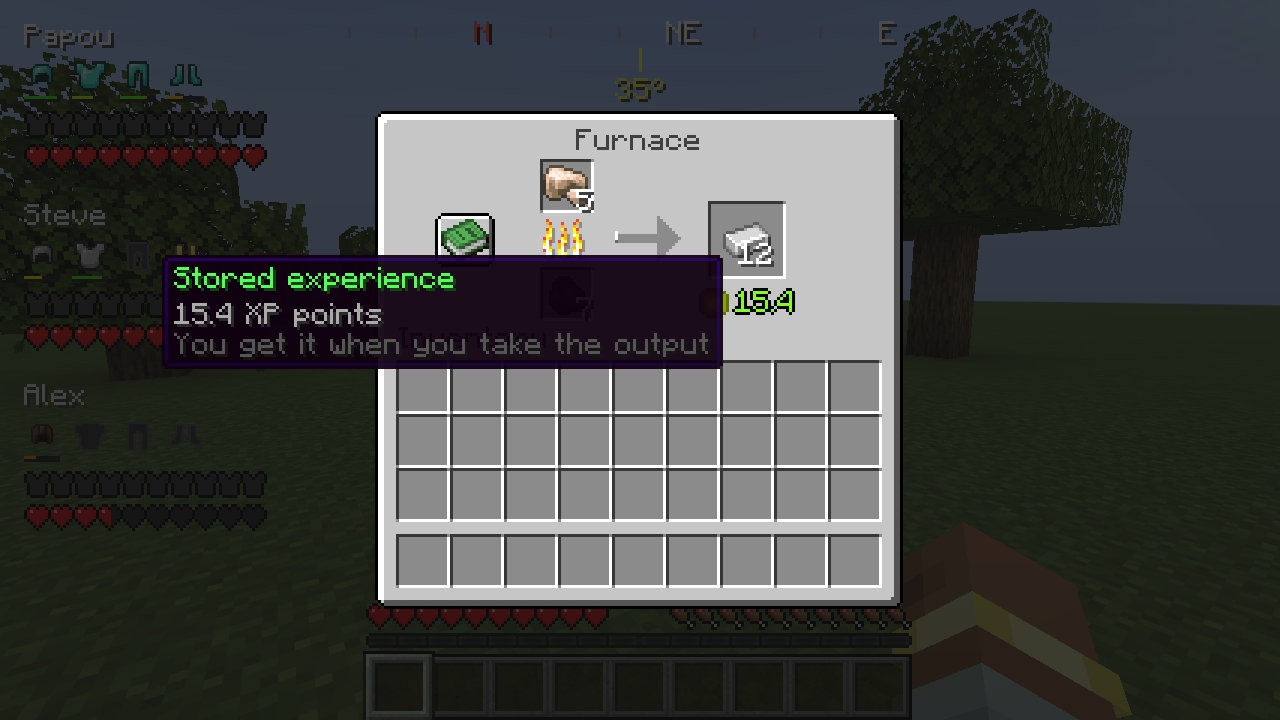
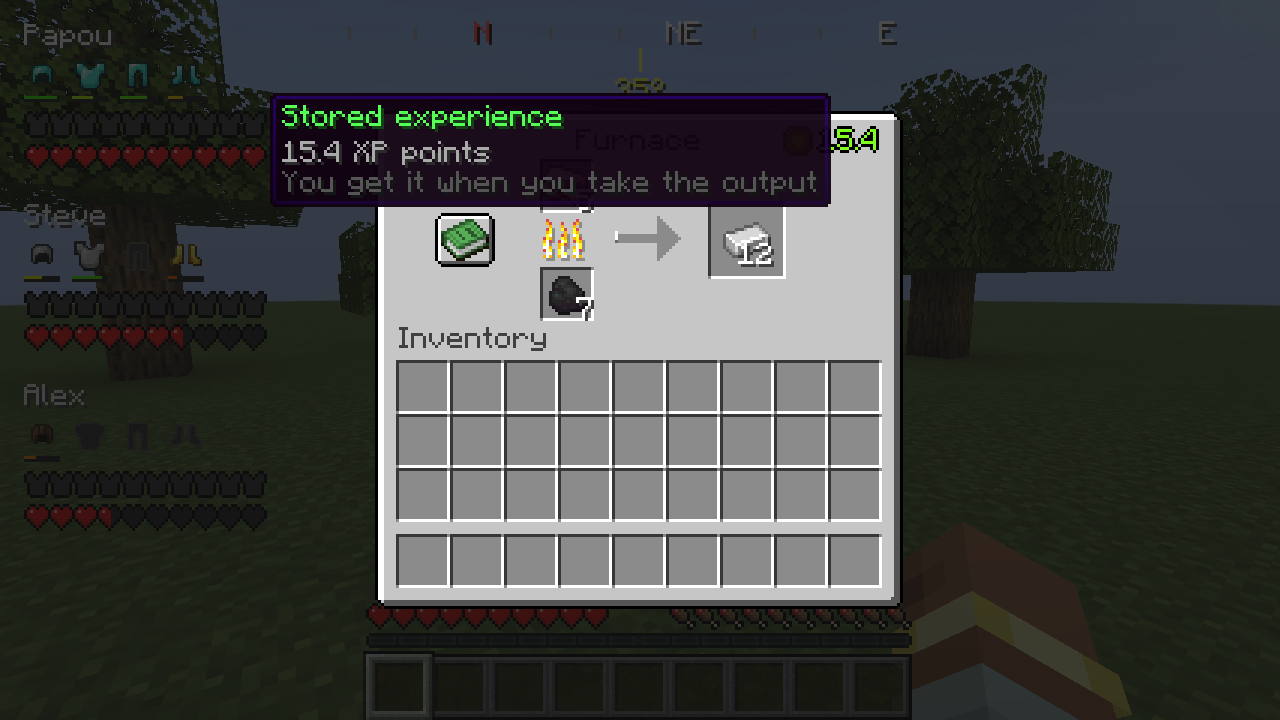
Move furnace XP badge to the title row, right-aligned
The orb and value now sit at the height of the "Furnace" title, with
their right edge 8 px from the GUI border (the same margin as the
"Inventory" label on the left). The longest title, "Blast Furnace",
ends well before it.

Changed region(s): [[0.0, 0.0, 0.9062, 0.5194], [0.0, 0.275, 0.0938, 0.4278], [0.6875, 0.3361, 0.7188, 0.3972]]

diff --git a/src/main/java/com/giulio/papouhud/FurnaceXpOverlay.java b/src/main/java/com/giulio/papouhud/FurnaceXpOverlay.java
@@ -17,7 +17,7 @@ import net.minecraft.util.Mth;
 import net.minecraft.util.Util;
 
 /**
- * Sotto lo slot di output di fornace/affumicatoio/altoforno: una sfera di esperienza pulsante come
+ * Sulla riga del titolo di fornace/affumicatoio/altoforno, a destra: una sfera di esperienza pulsante come
  * quelle a terra, seguita dal valore scritto come il livello nella barra dell'esperienza.
  * Passandoci sopra col mouse compare una spiegazione.
  */
@@ -33,9 +33,13 @@ final class FurnaceXpOverlay {
 	private static final int ORB_INSET = 3;
 	private static final int ORB_VISIBLE = 10;
 
-	/** Centro dello slot di output e riga libera sotto di esso, nelle coordinate della GUI (176x166). */
-	private static final int OUTPUT_CENTER_X = 124;
-	private static final int TEXT_Y = 60;
+	/**
+	 * Sulla riga del titolo ("Fornace"), allineato a destra con lo stesso margine di 8 px della
+	 * scritta "Inventario" a sinistra. Coordinate della GUI della fornace (176x166).
+	 */
+	private static final int GUI_WIDTH = 176;
+	private static final int RIGHT_MARGIN = 8;
+	private static final int TEXT_Y = 6;
 	private static final int GAP = 2;
 	private static final int XP_GREEN = 0xFF80FF20;
 	private static final int OUTLINE = 0xFF000000;
@@ -81,7 +85,7 @@ final class FurnaceXpOverlay {
 		Font font = Minecraft.getInstance().font;
 		String number = format(stored);
 		int width = ORB_VISIBLE + GAP + font.width(number);
-		int left = screen.leftPos + OUTPUT_CENTER_X - width / 2;
+		int left = screen.leftPos + GUI_WIDTH - RIGHT_MARGIN - width;
 		int top = screen.topPos + TEXT_Y;
 
 		// Parte visibile della sfera da (left, top - 1): alta come il testo (8 px) piu' il bordo.

diff --git a/src/gametest/java/com/giulio/papouhud/ScreenshotGameTest.java b/src/gametest/java/com/giulio/papouhud/ScreenshotGameTest.java
@@ -117,7 +117,8 @@ public class ScreenshotGameTest implements FabricClientGameTest {
 		int[] badge = context.computeOnClient(client -> {
 			AbstractFurnaceScreen<?> screen = (AbstractFurnaceScreen<?>) client.gui.screen();
 			int scale = client.getWindow().getGuiScale();
-			return new int[] {(screen.leftPos + 124) * scale, (screen.topPos + 64) * scale};
+			// Inside the badge, which ends 8 px from the right edge on the title row.
+			return new int[] {(screen.leftPos + 160) * scale, (screen.topPos + 10) * scale};
 		});
 		context.getInput().setCursorPos(badge[0], badge[1]);
 		context.waitTicks(5);

diff --git a/README.md b/README.md
@@ -6,7 +6,7 @@ A client-side [Fabric](https://fabricmc.net/) mod for Minecraft that adds a smal
 - **Compass** – a strip at the top of the screen with cardinal/intercardinal directions (north in red) and the current heading in degrees.
 - **XYZ coordinates** – your block position, right below the compass.
 - **Settings menu** – show or hide each element and rebind every shortcut in game.
-- **Furnace XP** – furnaces, smokers and blast furnaces show how much XP they are holding, under the output slot.
+- **Furnace XP** – furnaces, smokers and blast furnaces show how much XP they are holding, next to their title.
 - **Update check** – when a new version is released, a popup at startup offers to install it.
 
 ![Friend panels in the top-left corner, compass and coordinates at the top](docs/screenshots/hud.png)
@@ -46,11 +46,11 @@ In the settings menu, click a shortcut and press the new key. `Delete` or `Backs
 
 ## Furnace XP
 
-When you open a furnace, smoker or blast furnace, a pulsing XP orb and the amount of XP it has stored appear under the output slot. That's the XP you get when you take the output. Hover over it for a short explanation. Nothing is shown while the furnace holds no XP.
+When you open a furnace, smoker or blast furnace, a pulsing XP orb and the amount of XP it has stored appear on the title row, aligned to the right. That's the XP you get when you take the output. Hover over it for a short explanation. Nothing is shown while the furnace holds no XP.
 
-| Stored XP under the output slot | Tooltip on hover |
+| Stored XP on the title row | Tooltip on hover |
 | --- | --- |
-| ![Furnace showing an XP orb and 15.4 under the output slot](docs/screenshots/furnace-xp.png) | ![Tooltip: Stored experience, 15.4 XP points, you get it when you take the output](docs/screenshots/furnace-xp-tooltip.png) |
+| ![Furnace showing an XP orb and 15.4 on the title row](docs/screenshots/furnace-xp.png) | ![Tooltip: Stored experience, 15.4 XP points, you get it when you take the output](docs/screenshots/furnace-xp-tooltip.png) |
 
 Stored XP only exists on the server: the game never sends it to players. Papou HUD therefore reads it on the server side and sends it to players who have the mod:
 
